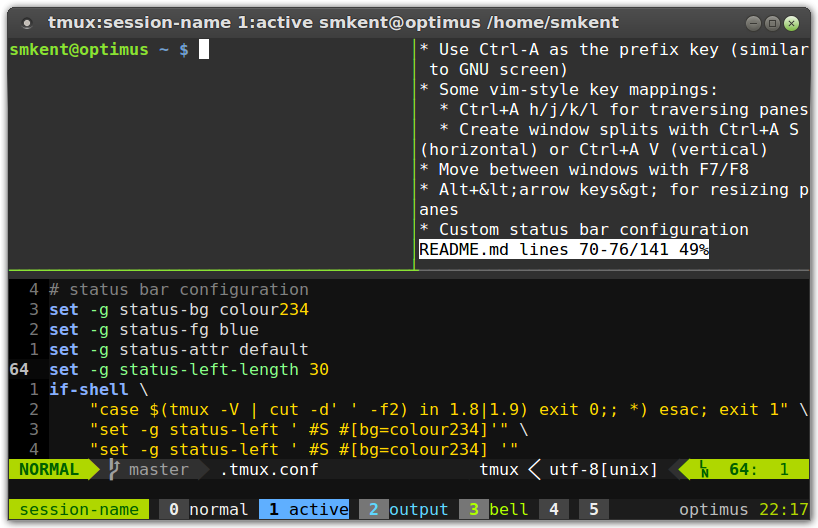
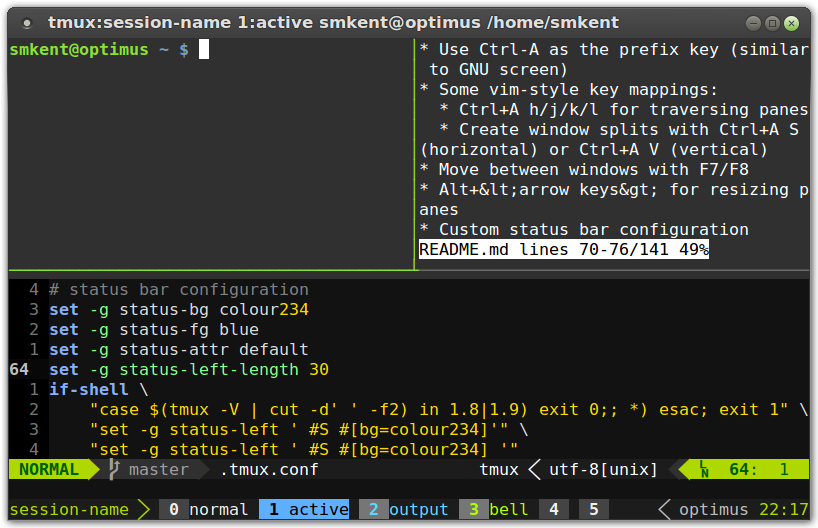
.tmux.conf: Change left status and add Powerline symbols to left/right
The previous left status format was visually similar to my vim normal
mode vim-airline status bar format. This changes the tmux left status
format to use green text on the same gray background color that the rest
of the status bar uses.

Changed region(s): [[0.0, 0.9394, 0.1834, 1.0], [0.7946, 0.9394, 0.8252, 0.9697]]

diff --git a/README.md b/README.md
@@ -47,9 +47,10 @@ your name and email address and remove `.face`.
 
 ### External components
 
-My [vim-airline](https://github.com/vim-airline/vim-airline) configuration
-requires the [Powerline Fonts](https://github.com/powerline/fonts), which can
-be installed using the [install-fonts](/.dotfiles/bin/install-fonts) script.
+My [vim-airline](https://github.com/vim-airline/vim-airline) and tmux
+configurations require the [Powerline
+Fonts](https://github.com/powerline/fonts), which can be installed using the
+[install-fonts](/.dotfiles/bin/install-fonts) script.
 
 ## Features
 
